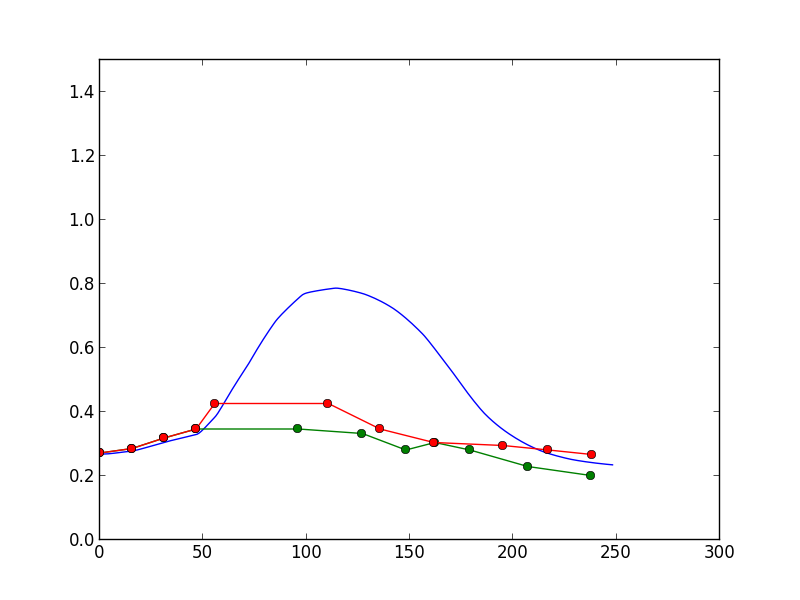
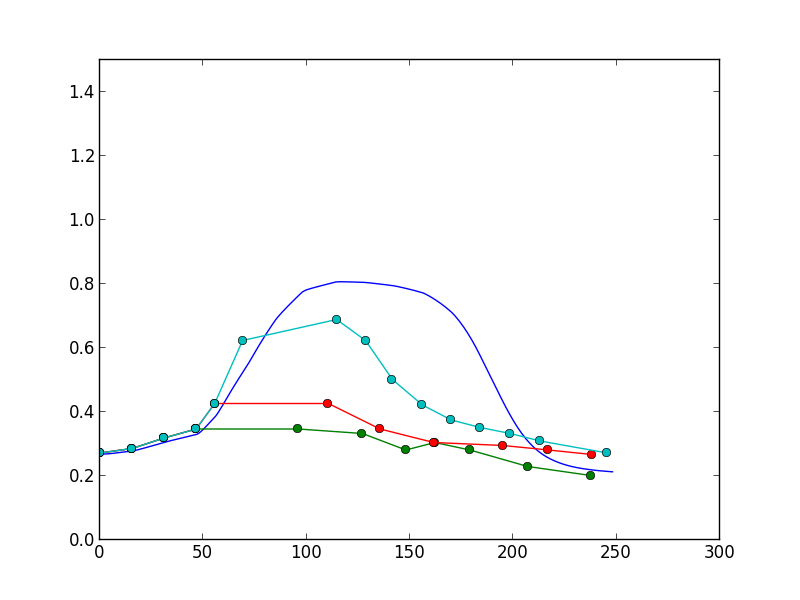
got r25 and r34 factors, levels not right yet

diff --git a/omm.py b/omm.py
@@ -44,23 +44,29 @@ e_prod = 1.3
 D_e = 0.01
 
 r25_k = 1.0
+N_25 = 0.2
+n25 = 4.0
 
-params = [y_k,y_basal,e_k,E,ne,D_e,r25_k,Y,ny]
+r34_k = 1.0
+N_34 = 0.2
+n34 = 4.0
 
-nmol = 3
+params = [y_k,y_basal,e_k,E,ne,D_e,r34_k,Y,ny]
+
+nmol = 4
 
 # The function that determines the rates of change, which we solve to integrate
 def f(y, t, nmol, params):
     # get the parameters back out to a usable form
-    y_k = params[0]
-    y_basal = params[1]
-    e_k = params[2]
-    E = params[3]
-    ne = params[4]
-    D_e = params[5]
-    r25_k = params[6]
-    Y = params[7]
-    ny = params[8] 
+    #y_k = params[0]
+    #y_basal = params[1]
+    #e_k = params[2]
+    #E = params[3]
+    #ne = params[4]
+    #D_e = params[5]
+    #r34_k = params[6]
+    #Y = params[7]
+    #ny = params[8] 
     
     #reshape flat array into shape (nmol,5)
     c = np.reshape(y,[nmol,5])
@@ -70,16 +76,16 @@ def f(y, t, nmol, params):
     yan = c[0,:]
     egfr = c[1,:]
     R_25 = c[2,:]
-    #R_34 = c[3,:]
+    R_34 = c[3,:]
 
     # rates of change for yan
     xprime[0,:] = y_k * (y_basal + (1-hill(egfr,E,ne))*(1-hill(yan,Y,ny))*(progfxn(t)-y_basal) - yan)
     # rates of change for egfr
-    xprime[1,:] = e_k * (e_prod*(sens+R_25 - egfr)) + D_e*oneDdiff(egfr)
+    xprime[1,:] = e_k * (e_prod*(sens+R_25+R_34) - egfr) + D_e*oneDdiff(egfr)
     # rate of change for R_25
-    xprime[2,:] = r25_k * (rough*hill(egfr,0.2,4.0)*(1-hill(yan,1.0,2.0)) - 1.0*R_25)
+    xprime[2,:] = r25_k * (rough*hill(egfr,N_25,n25)*(1-hill(yan,Y,ny)) - 1.0*R_25)
     # rate of change for R_34
-    #xprime[6,:] = 0.0 #r34_prod + hill(p1+pp2/E_r,1.0,npr)*(1-hill((sens+rough)/RS_r,1.0,nrr))*(1-hill(yan/Y_r,1.0,nyr)) - r34_deg * R_34
+    xprime[3,:] = r34_k * (hill(egfr,N_34,n34)*(1-hill(yan,Y,ny))*(1-hill(rough+sens,0.1,2.0)) - 1.0*R_34)
     return xprime.flatten()
 
 #set up precluster
@@ -101,11 +107,11 @@ print "done"
 
 # plot simulation and data
 plt.clf()
-plt.plot(timerange,resols[:,0,1])
+plt.plot(timerange,resols[:,0,2])
 #plt.plot(progs[0],progs[1], marker = 'o')
 plt.plot(r8s[0],r8s[1], marker = 'o')
 plt.plot(r25s[0],r25s[1], marker = 'o')
-#plt.plot(r34s[0],r34s[1], marker = 'o')
+plt.plot(r34s[0],r34s[1], marker = 'o')
 plt.axis([0,300,0,1.5])
 plt.savefig("fig.png")
 

diff --git a/.#omm.py b/.#omm.py
@@ -1,0 +1,1 @@
+james@xanthos.42320
